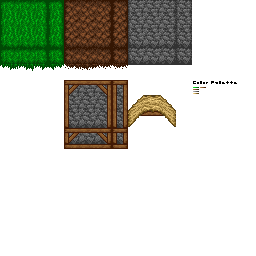
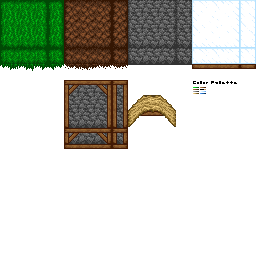
Added glass, as well as support for both horizontal and vertical unblended terrains, which allows for edges to be defined next to terrain surfaces other than air.  See the window in the test world as an example.

Changed region(s): [[0.75, 0.0, 1.0, 0.2812], [0.7812, 0.3438, 0.8125, 0.375]]

diff --git a/src/world/World.java b/src/world/World.java
@@ -312,15 +312,32 @@ public class World {
 						    	int texX = t.getTexCol();
 						    	int texY = t.getTexRow();
 						    	
-						    	boolean topEmpty = k + 1 >= terrainGrid[0][0].length || terrainGrid[i][j][k+1].getTerrainType() == air,
-				    			rightEmpty = i + 1 >= terrainGrid.length || terrainGrid[i+1][j][k].getTerrainType() == air,
-				    			leftEmpty = i - 1 < 0 || terrainGrid[i-1][j][k].getTerrainType() == air;
-
-				    			boolean bottomOnGround = false;
-				    			if (k - 1 < 0 || j - 1 < 0)
-				    				bottomOnGround = false;
-				    			else if (terrainGrid[i][j-1][k].getTerrainType() == air && terrainGrid[i][j-1][k-1].getTerrainType() != air)
-				    				bottomOnGround = true;
+						    	boolean topEmpty, rightEmpty, leftEmpty, bottomOnGround;
+						    	
+						    	if (t.isUnblendedVertical())
+						    	{
+							    	topEmpty = k + 1 >= terrainGrid[0][0].length || terrainGrid[i][j][k+1].getTerrainType() != t.getTerrainType();
+					    			rightEmpty = i + 1 >= terrainGrid.length || terrainGrid[i+1][j][k].getTerrainType() != t.getTerrainType();
+					    			leftEmpty = i - 1 < 0 || terrainGrid[i-1][j][k].getTerrainType() != t.getTerrainType();
+	
+					    			bottomOnGround = false;
+					    			if (k - 1 < 0 || j - 1 < 0)
+					    				bottomOnGround = true;
+					    			else if (terrainGrid[i][j][k-1].getTerrainType() != t.getTerrainType())
+					    				bottomOnGround = true;
+						    	}
+						    	else
+						    	{
+							    	topEmpty = k + 1 >= terrainGrid[0][0].length || terrainGrid[i][j][k+1].getTerrainType() == air;
+					    			rightEmpty = i + 1 >= terrainGrid.length || terrainGrid[i+1][j][k].getTerrainType() == air;
+					    			leftEmpty = i - 1 < 0 || terrainGrid[i-1][j][k].getTerrainType() == air;
+	
+					    			bottomOnGround = false;
+					    			if (k - 1 < 0 || j - 1 < 0)
+					    				bottomOnGround = false;
+					    			else if (terrainGrid[i][j-1][k].getTerrainType() == air && terrainGrid[i][j-1][k-1].getTerrainType() != air)
+					    				bottomOnGround = true;
+						    	}
 				    			
 					    		if (topEmpty && bottomOnGround)
 					    		{
@@ -469,10 +486,21 @@ public class World {
 						    	int texY = t.getTexRowTop();
 						    	float tConv;
 							
-								boolean topEmpty = j + 1 >= terrainGrid[0].length || terrainGrid[i][j+1][k-1].getTerrainType() == air,
-				    			bottomEmpty = j - 1 < 0 || terrainGrid[i][j-1][k-1].getTerrainType() == air,
-				    			rightEmpty = i + 1 >= terrainGrid.length || terrainGrid[i+1][j][k-1].getTerrainType() == air,
-				    			leftEmpty = i - 1 < 0 || terrainGrid[i-1][j][k-1].getTerrainType() == air;
+						    	boolean topEmpty, bottomEmpty, rightEmpty, leftEmpty;
+						    	if (t.isUnblendedHorizontal())
+						    	{
+									topEmpty = j + 1 >= terrainGrid[0].length || terrainGrid[i][j+1][k-1].getTerrainType() != t.getTerrainTop();
+					    			bottomEmpty = j - 1 < 0 || terrainGrid[i][j-1][k-1].getTerrainType() != t.getTerrainTop();
+					    			rightEmpty = i + 1 >= terrainGrid.length || terrainGrid[i+1][j][k-1].getTerrainType() != t.getTerrainTop();
+					    			leftEmpty = i - 1 < 0 || terrainGrid[i-1][j][k-1].getTerrainType() != t.getTerrainTop();
+						    	}
+						    	else
+						    	{
+									topEmpty = j + 1 >= terrainGrid[0].length || terrainGrid[i][j+1][k-1].getTerrainType() == air;
+					    			bottomEmpty = j - 1 < 0 || terrainGrid[i][j-1][k-1].getTerrainType() == air;
+					    			rightEmpty = i + 1 >= terrainGrid.length || terrainGrid[i+1][j][k-1].getTerrainType() == air;
+					    			leftEmpty = i - 1 < 0 || terrainGrid[i-1][j][k-1].getTerrainType() == air;
+						    	}
 				    		
 					    		if (topEmpty && bottomEmpty)
 					    		{

diff --git a/src/world/Terrain.java b/src/world/Terrain.java
@@ -5,11 +5,13 @@ import static world.Terrain.terrainType.*;
 public class Terrain {
 	public enum terrainType
 	{
-		grass, dirt, air, rock, thatch
+		grass, dirt, air, rock, thatch, glass
 	}
 	
 	boolean blocking;
 	boolean transparent;
+	boolean unblendedVertical;
+	boolean unblendedHorizontal;
 	terrainType type;
 	terrainType top;
 	int texRow;
@@ -34,6 +36,15 @@ public class Terrain {
 	public terrainType getTerrainType()
 	{
 		return type;
+	}
+	
+	/**
+	 * Getter for the terrain type top
+	 * @return the terrain type top
+	 */
+	public terrainType getTerrainTop()
+	{
+		return top;
 	}
 	
 	/**
@@ -114,6 +125,24 @@ public class Terrain {
 	}
 	
 	/**
+	 * Getter for unblendedVertical
+	 * @return true if unblendedVertical
+	 */
+	public boolean isUnblendedVertical()
+	{
+		return unblendedVertical;
+	}
+	
+	/**
+	 * Getter for unblendedHorizontal
+	 * @return true if unblendedHorizontal
+	 */
+	public boolean isUnblendedHorizontal()
+	{
+		return unblendedHorizontal;
+	}
+	
+	/**
 	 * Updates the internal attributes of the terrain type.
 	 * This must be called any time the terrain type is set.
 	 */
@@ -121,6 +150,7 @@ public class Terrain {
 	{
 		setBlocking();
 		setTransparent();
+		setUnblended();
 		setTexPos();
 	}
 	
@@ -142,10 +172,28 @@ public class Terrain {
 	private void setTransparent()
 	{
 		//add the names of any new transparent terrain types here
-		if (type == air)
+		if (type == air || type == glass)
 			transparent = true;
 		else
 			transparent = false;
+	}
+	
+	/**
+	 * Determines whether or not a terrain type should be blended with surrounding terrain types and updates accordingly
+	 */
+	private void setUnblended()
+	{
+		//add the names of any new unblended vertical terrain types here
+		if (type == glass)
+			unblendedVertical = true;
+		else
+			unblendedVertical = false;
+		
+		//add the names of any new unblended horizontal terrain types here
+		if (type == glass)
+			unblendedHorizontal = true;
+		else
+			unblendedHorizontal = false;
 	}
 	
 	/**
@@ -162,6 +210,8 @@ public class Terrain {
 			texRow = 0; texCol = 1; break;
 		case rock:
 			texRow = 0; texCol = 2; break;
+		case glass:
+			texRow = 0; texCol = 3; break;
 			
 		//Unset
 		default:

diff --git a/src/main/GameMain.java b/src/main/GameMain.java
@@ -603,7 +603,7 @@ public class GameMain {
 					t[i][j][1] = new Terrain(dirt);
 			}
 		}
-		
+		/*
 		t[31][30][5] = new Terrain(air);
 		t[32][30][5] = new Terrain(air);
 		t[32][30][4] = new Terrain(air);
@@ -614,6 +614,11 @@ public class GameMain {
 		t[34][30][4] = new Terrain(air);
 		t[34][30][3] = new Terrain(air);
 		t[34][30][2] = new Terrain(air);
+		*/
+		t[32][30][2] = new Terrain(glass, air);
+		t[33][30][2] = new Terrain(glass, air);
+		t[32][30][3] = new Terrain(glass, air);
+		t[33][30][3] = new Terrain(glass, air);
 		
 		//shadow tests
 		for (int i = 1; i < 8; i ++)
@@ -641,7 +646,7 @@ public class GameMain {
 		world.setTerrain(t);
 		
 		LightSource l1 = new LightSource();
-		world.addThing(l1, 33, 33, 1);
+		world.addThing(l1, 33, 33, 2);
 		
 		ArrayList<Agent> agents = new ArrayList<Agent>();
 		
